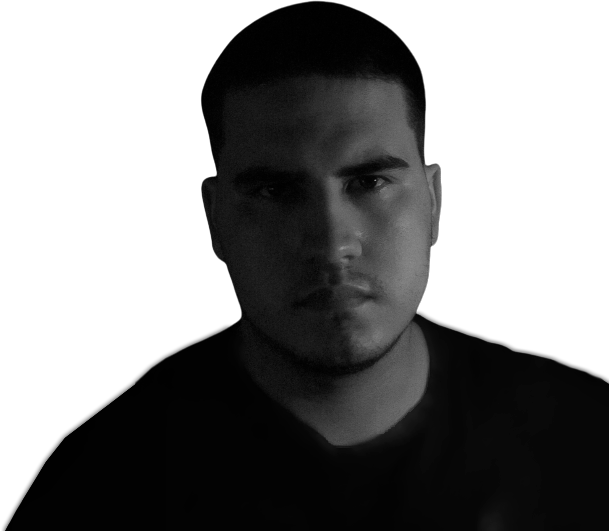
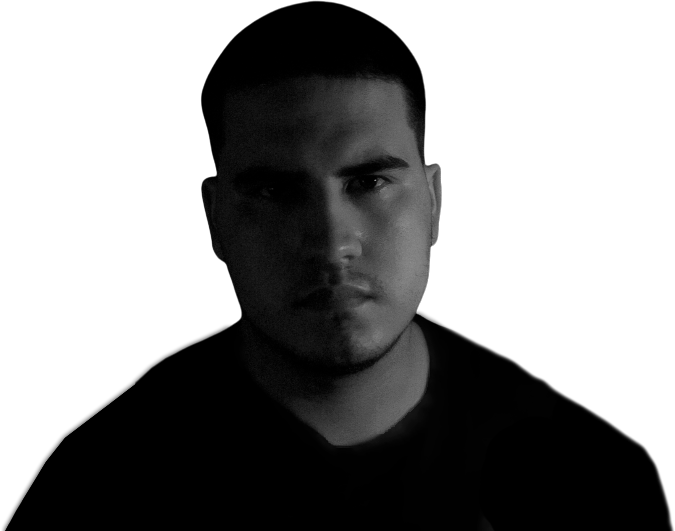
Removendo scroll lateral e ajustando tamanhos

Changed region(s): [[0.0, 0.0, 1.0, 1.0], [0.4368, 0.5424, 0.468, 0.5725]]

diff --git a/css/style.css b/css/style.css
@@ -6,10 +6,12 @@
     scroll-behavior: smooth;
 }
 
+
 body {
-    background-color: #030303;
+    background-color: #050505;
     width: 100%;
     height: 100%;
+    overflow-x: hidden;
 }
 
 header{
@@ -95,21 +97,19 @@ section.basic_info_bg{
 }
 
 .perfil_image{
- width: 50%;
- margin-bottom: -5px;
-}
+    width: 40%;
+    margin-bottom: -5px;
+    }
 
 .perfil_image img{
-    position: relative;
     margin-top: 20px;
-    width: 140%;
-    left: 20px;
-    
+    width: 170%;
+  
 }
 
 .center_basic_info{
     display: flex;
-    max-width: 1100px;
+    width: 1100px;
     padding: 0 2%;
     margin: 0 auto;
 }
@@ -139,7 +139,7 @@ section.about_me_bg {
 
 .center_about_me{
     display: flex;
-    max-width: 1100px;
+    width: 1100px;
     padding: 0 2%;
     margin: 0 auto;
 }
@@ -149,14 +149,14 @@ section.about_me_bg {
 }
 
 .about_me_image{
+    width: 50%;
     margin-top: 20px;
     margin-bottom: -5px;
 }
 
 .about_me_image img{
-    position: relative;
-    width: 100%;
-    left: 42%;
+    width: 120%;
+    margin-left: 10%;
 }
 
 
@@ -460,6 +460,7 @@ footer p{
         align-items: center;
         text-align: center;
         padding-bottom: 30px;
+        width: 100%;
     }
     /* About_me */
 
@@ -473,6 +474,7 @@ footer p{
         flex-direction: column;
         align-items: center;
         text-align: center;
+        width: 100%;
     }
 
     .about_me h1{
@@ -541,6 +543,7 @@ footer p{
         align-items: center;
         text-align: center;
         padding-bottom: 30px;
+        width: 100%;
     }
     /* About_me */
 
@@ -555,6 +558,7 @@ footer p{
         flex-direction: column;
         align-items: center;
         text-align: center;
+        width: 100%;
     }  
     }
     .about_me p{

diff --git a/index.html b/index.html
@@ -1,5 +1,5 @@
 <!DOCTYPE html>
-<html lang="en">
+<html lang="pt-BR">
 <head>
     <link href="css/style.css" rel="stylesheet" />
     <link rel="preconnect" href="https://fonts.googleapis.com">
@@ -11,7 +11,7 @@
     <meta charset="UTF-8">
     <meta http-equiv="X-UA-Compatible" content="IE=edge">
     <meta name="viewport" content="width=device-width, initial-scale=1.0">
-    
+
     <title> Portfólio - Guilherme Santos </title>
 </head>
 <body>
